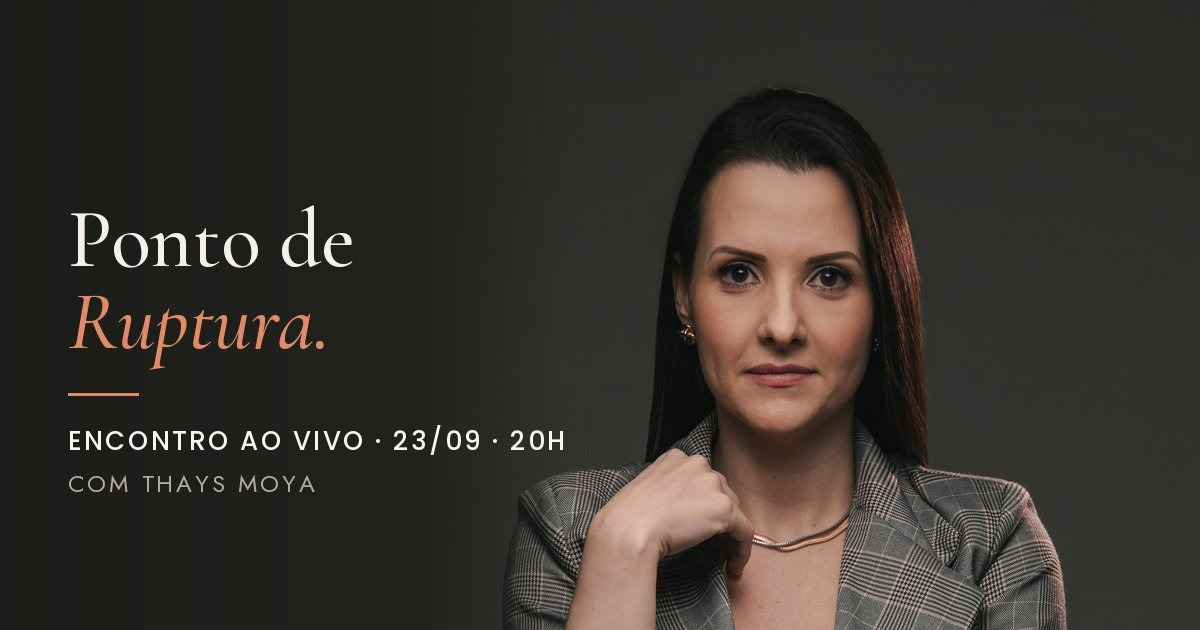
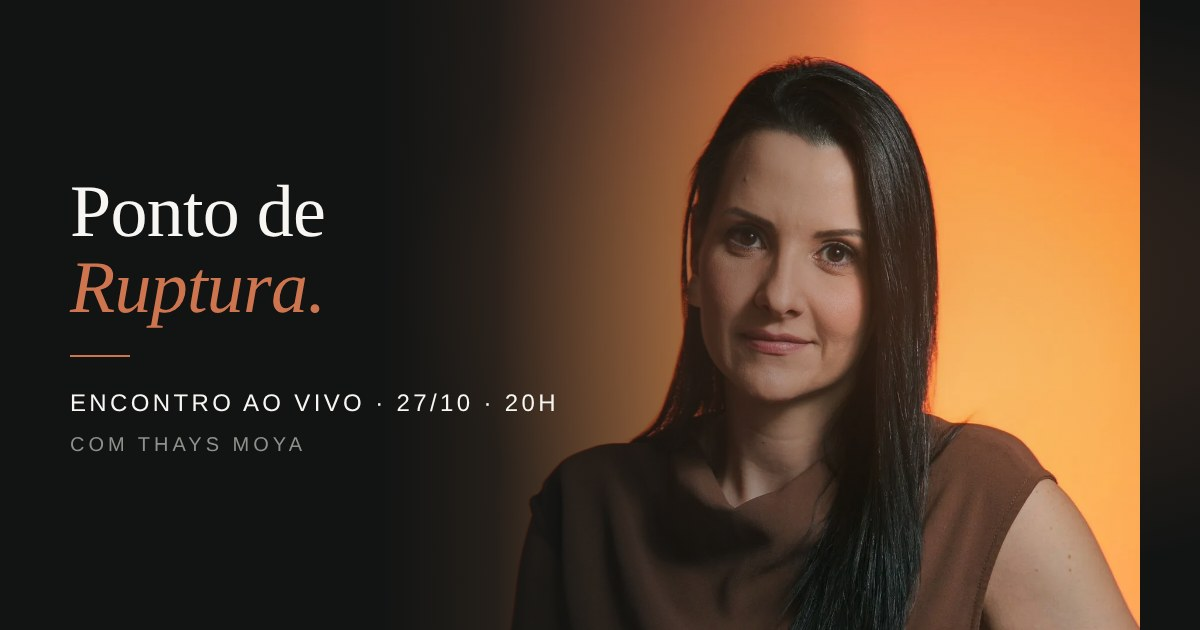
Nova arte de compartilhamento (og-image) com data 27/10

diff --git a/index.html b/index.html
@@ -27,7 +27,7 @@ src="https://www.facebook.com/tr?id=1021570017037883&ev=PageView&noscript=1"
 <meta property="og:type" content="website">
 <meta property="og:title" content="Ponto de Ruptura · Encontro ao vivo com Thays Moya · 27/10">
 <meta property="og:description" content="Se a sua empresa para quando você para, ela não é uma empresa. É você com CNPJ. Encontro prático ao vivo no Zoom. Terça, 27 de outubro, às 20h.">
-<meta property="og:image" content="https://thaysmoya.github.io/ponto-de-ruptura/og-image.jpg?v=27out2026">
+<meta property="og:image" content="https://thaysmoya.github.io/ponto-de-ruptura/og-image.jpg?v=27out2026b">
 <meta property="og:image:width" content="1200">
 <meta property="og:image:height" content="630">
 <meta property="og:url" content="https://thaysmoya.github.io/ponto-de-ruptura/">
